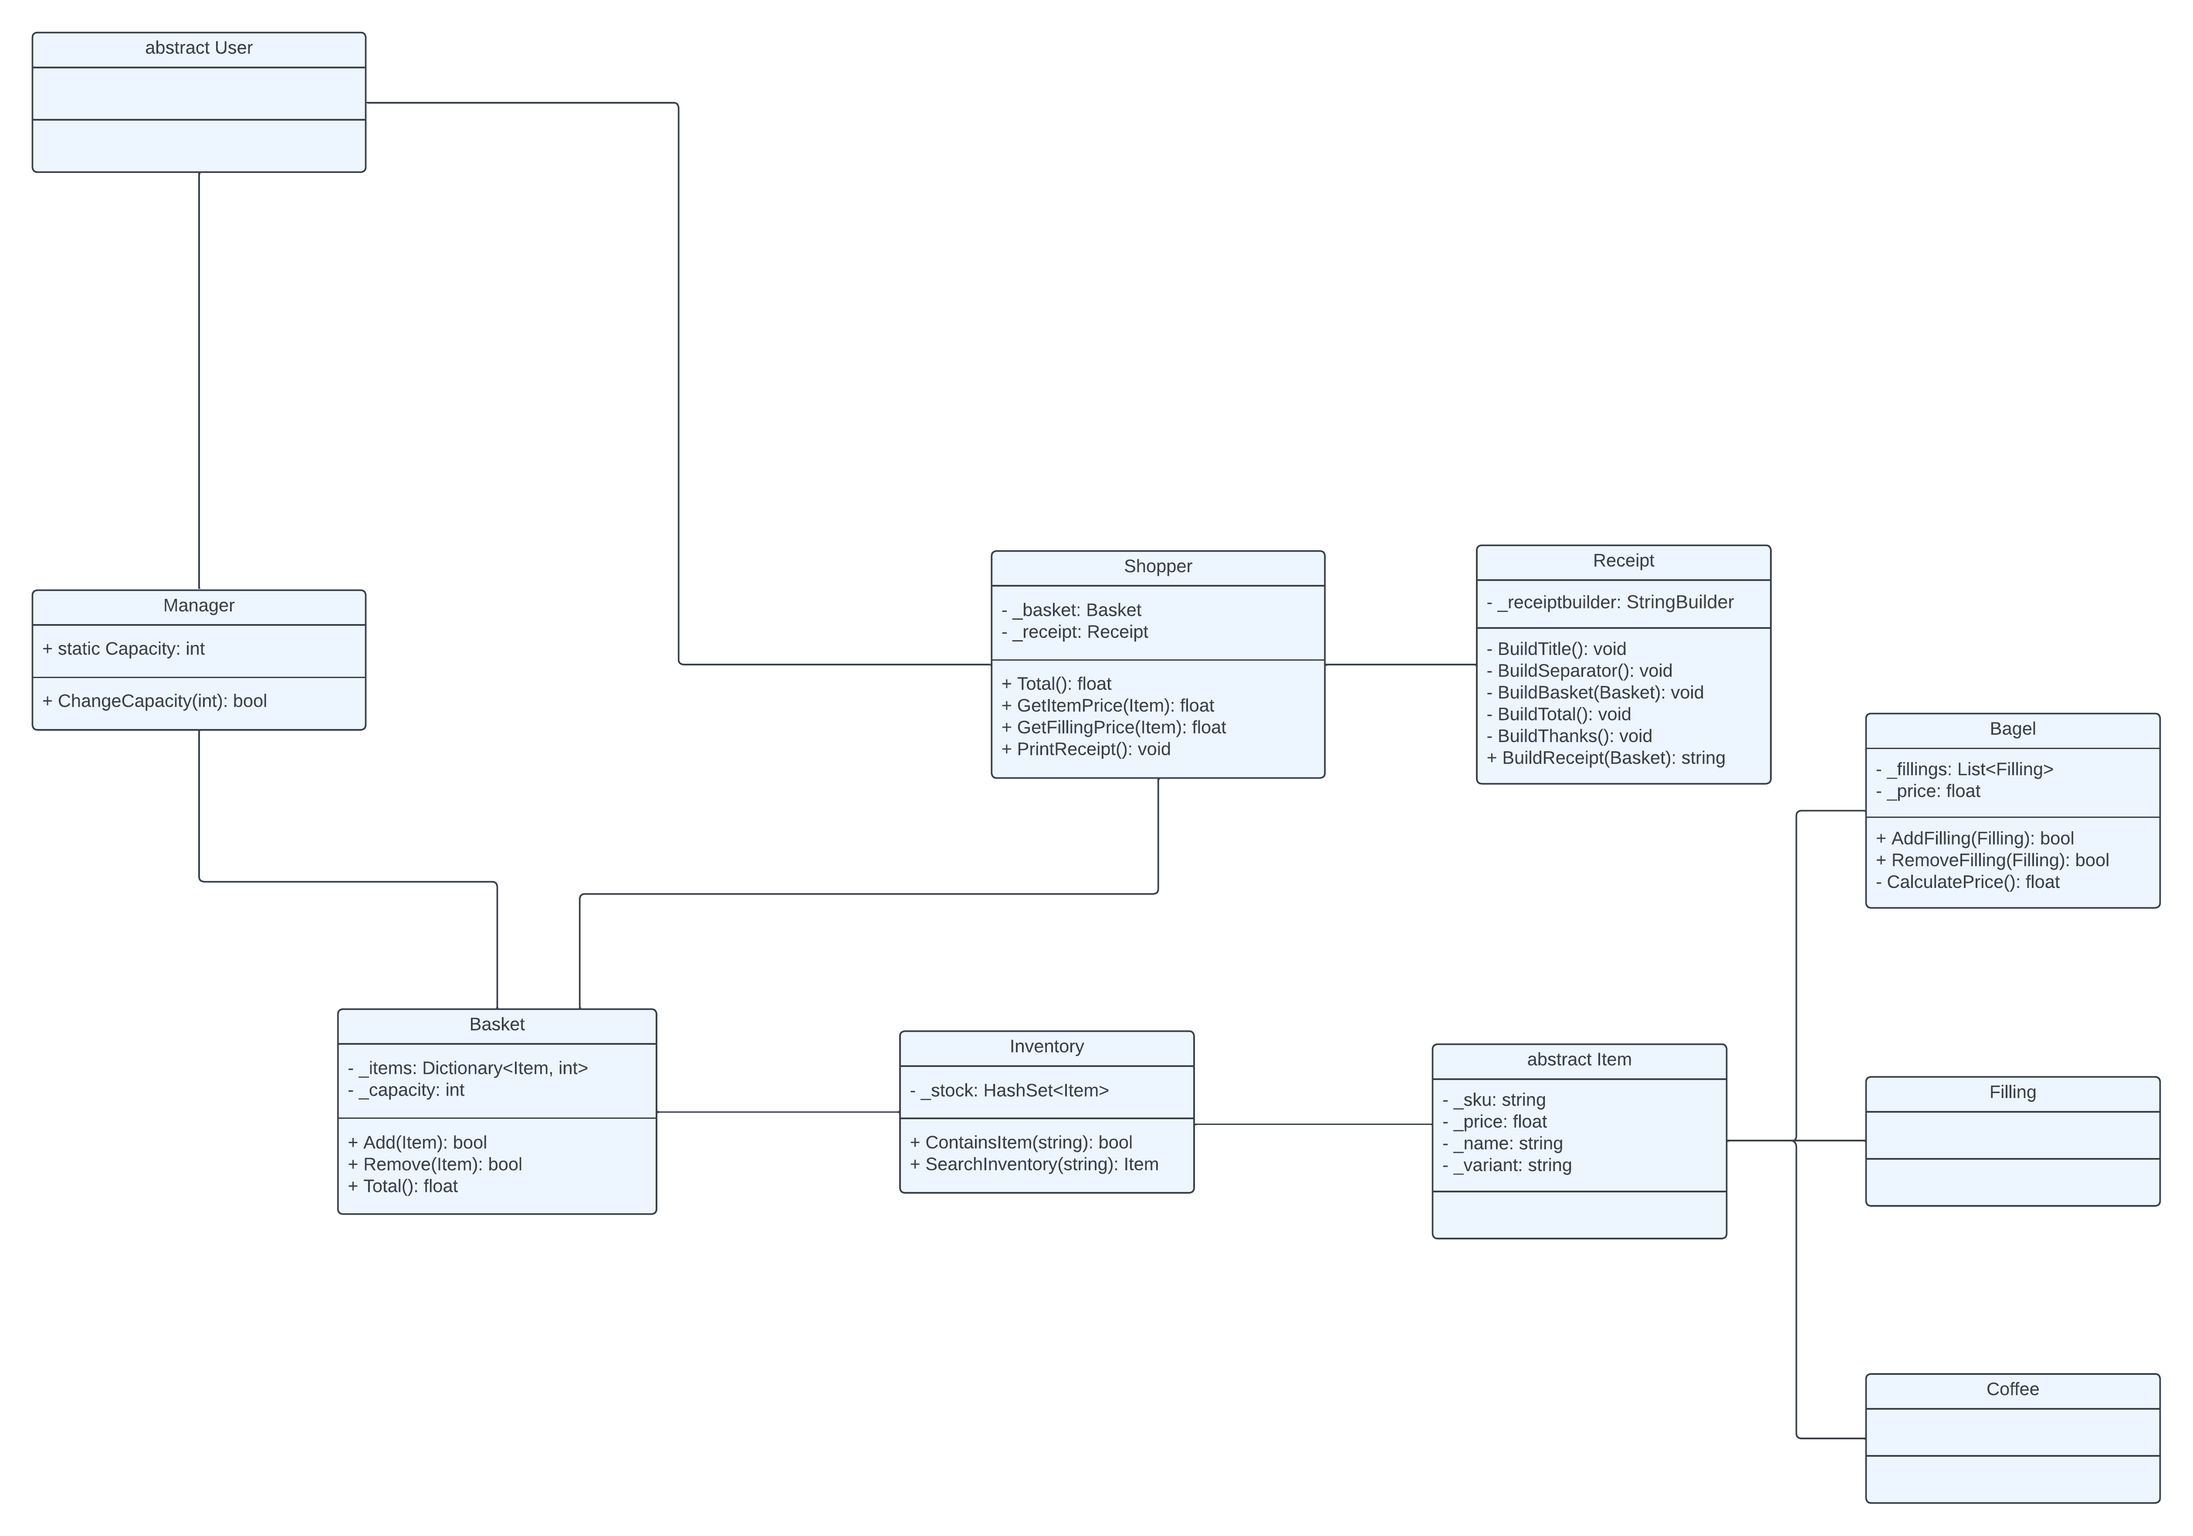
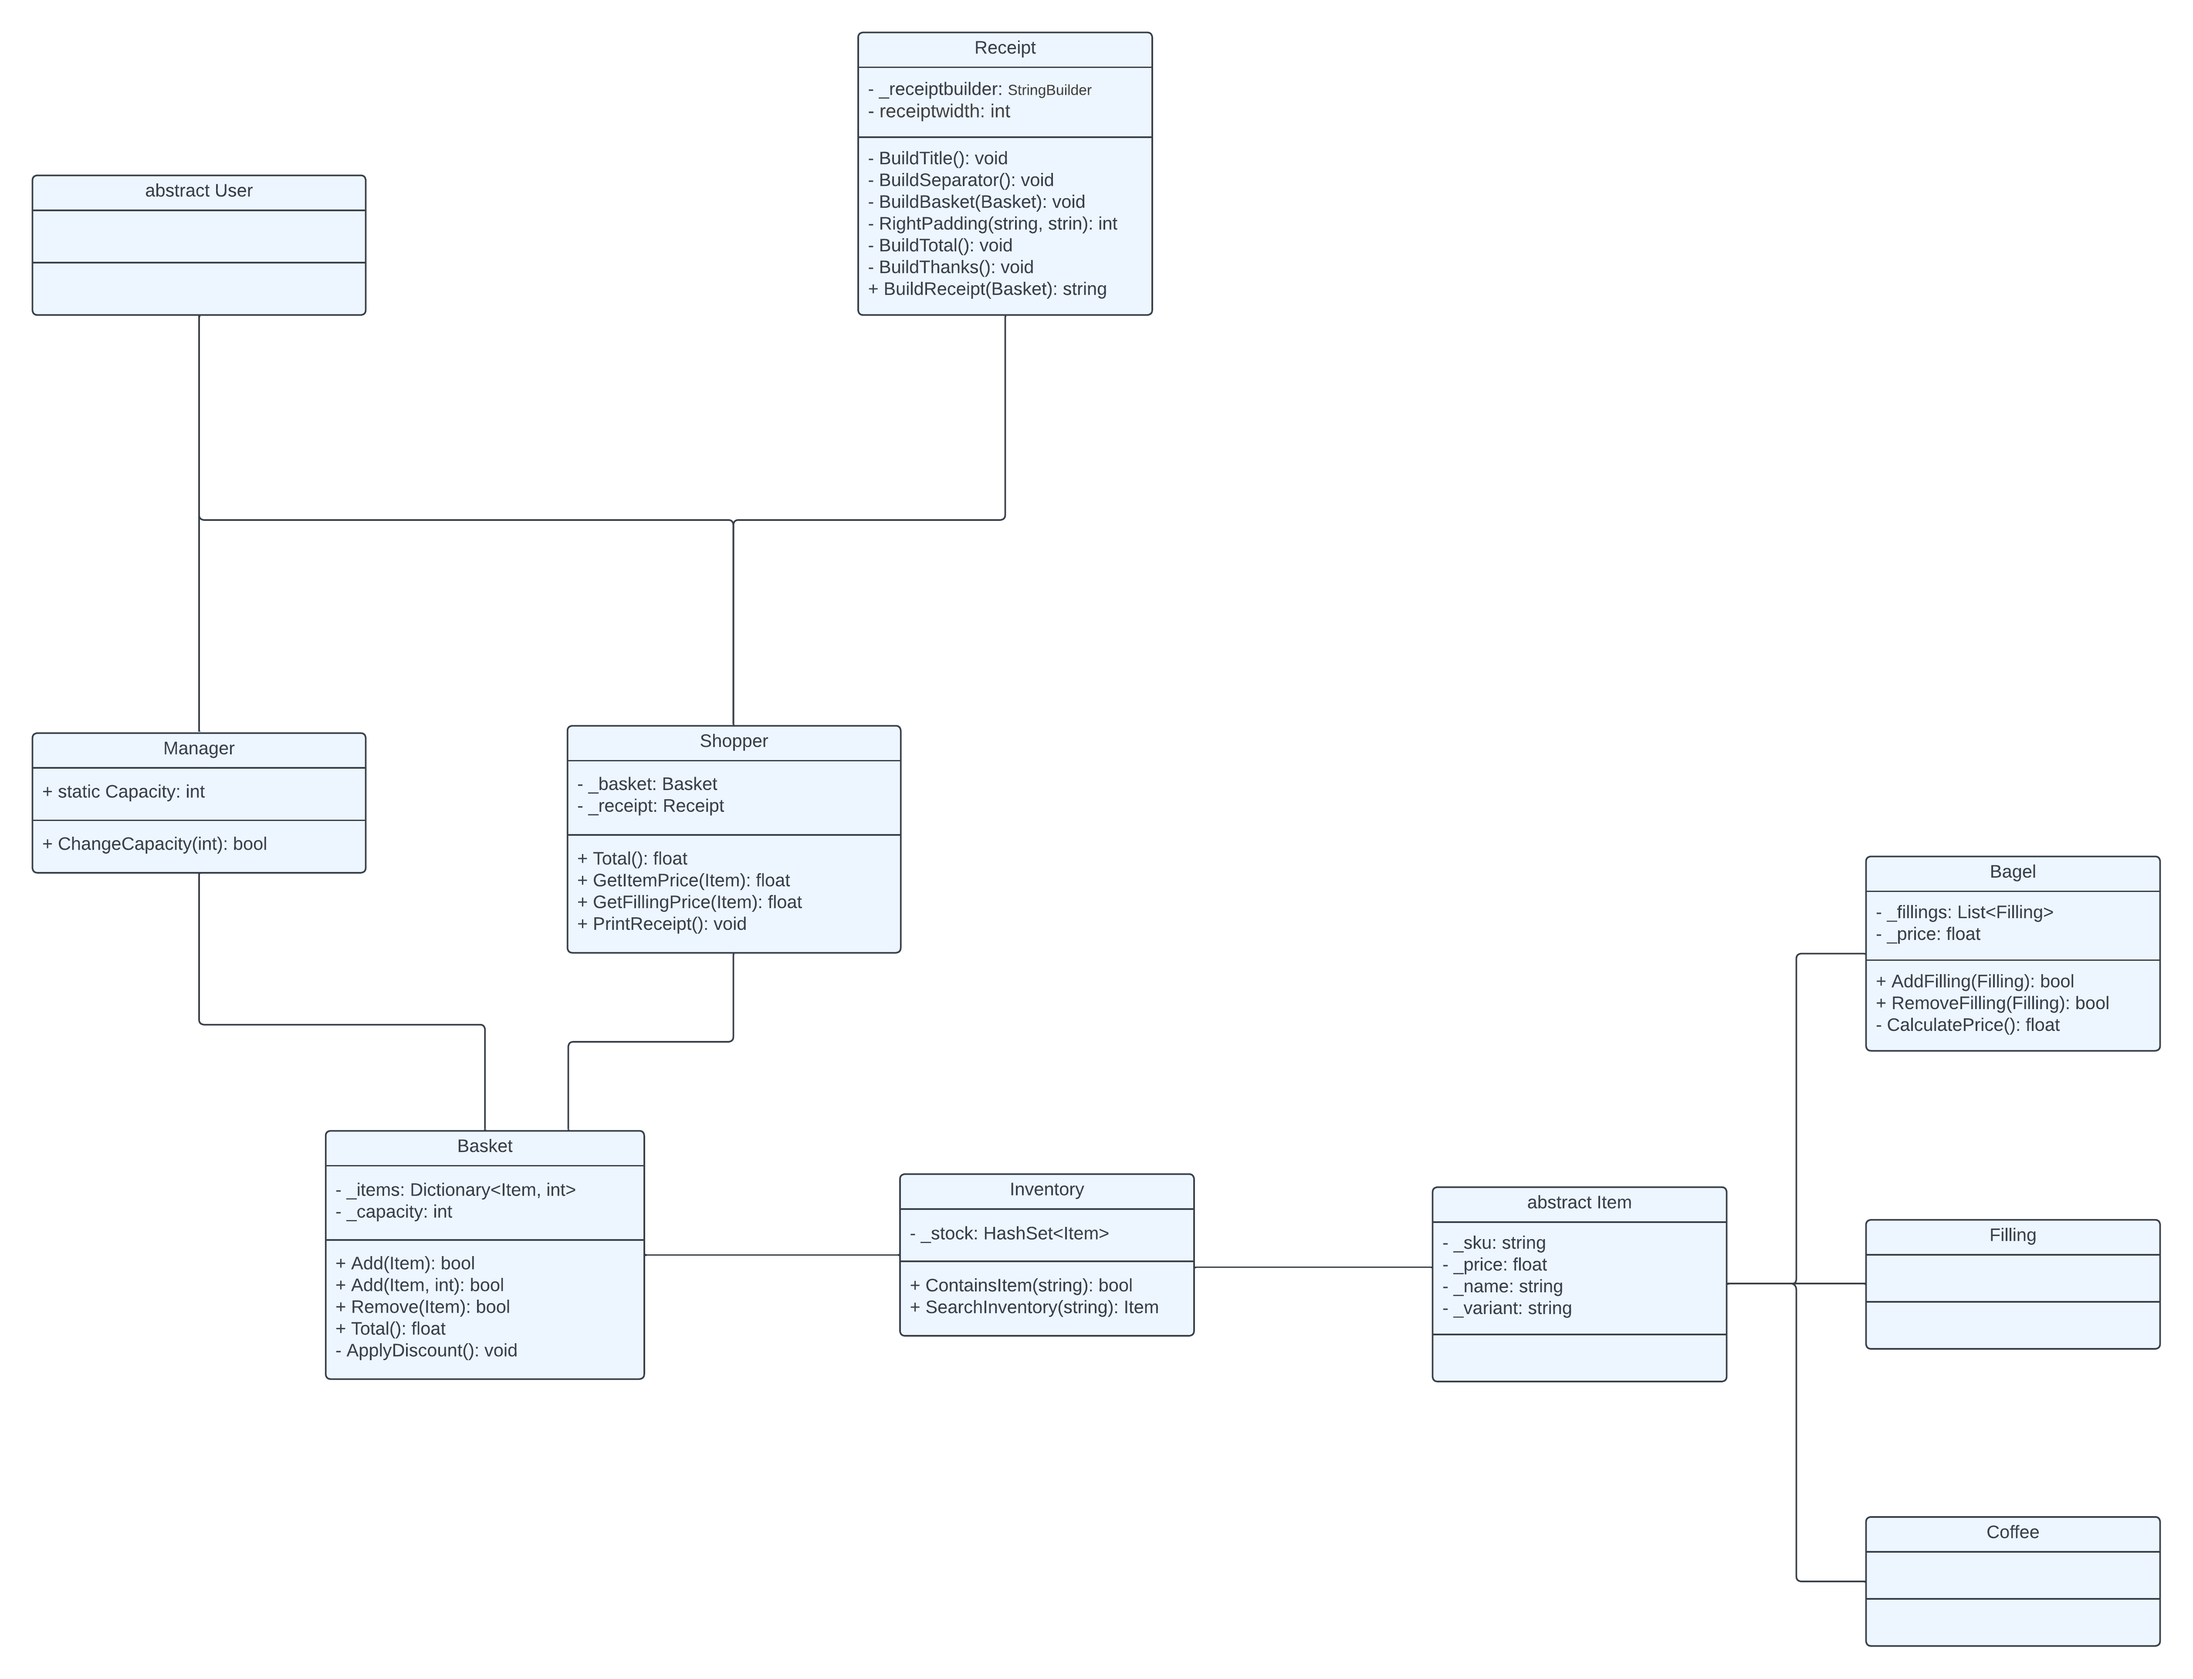
Added user stories, class diagram and updated skeleton code for extension 1

diff --git a/exercise.main/Item.cs b/exercise.main/Item.cs
@@ -1,19 +1,27 @@
-
-
-namespace BobsBagels.main
+namespace BobsBagels.main
 {
-    public abstract class Item(string sku, float price, string name, string variant)
+    public abstract class Item
     {
-        private string _sku { get; } = sku;
-        private float _price { get; } = price;
-        private string _name { get; } = name;
-        private string _variant { get; } = variant;
+        private string _sku;
+        private float _price;
+        private string _name;
+        private string _variant;
 
+        public Item(string sku, float price, string name, string variant)
+        {
+            _sku = sku;
+            _price = price;
+            _name = name;
+            _variant = variant;
+        }
 
         public string SKU { get { return _sku; } }
-        public float Price { get { return _price; } }
-        public string Name { get { return _name; } }
-        public string Variant{ get { return _variant; }
+        public float Price
+        {
+            get { return _price; }
+            set { _price = value; }
         }
+        public string Name { get { return _name; } }
+        public string Variant { get { return _variant; } }
     }
 }

diff --git a/exercise.tests/CoreTests.cs b/exercise.tests/CoreTests.cs
@@ -286,6 +286,9 @@ public class CoreTests {
 
     }
 
+    // ------------------ EXTENSION 1 ------------------
+
+
     // ------------------ EXTENSION 2 ------------------
 
     [Test]
@@ -376,5 +379,8 @@ public class CoreTests {
         var output = stringWriter.ToString();
         Assert.That(output, Is.EqualTo("\r\n"));
     }
+
+    
+
 
 }

diff --git a/exercise.main/Program.cs b/exercise.main/Program.cs
@@ -1,15 +1,3 @@
 // See https://aka.ms/new-console-template for more information
 using BobsBagels.main;
 
-
-var inventory = new Inventory();
-var shopper = new Shopper();
-var manager = new Manager();
-manager.ChangeCapacity(16);
-
-
-// act
-
-var BGLP = inventory.SearchInventory("BGLP");
-shopper.Basket.Add(BGLP, 16);
-shopper.PrintReceipt();

diff --git a/exercise.main/Basket.cs b/exercise.main/Basket.cs
@@ -6,6 +6,8 @@
         private int _capacity { get { return Manager.Capacity; } }
         private int _count { get; set; } = 0;
 
+        private void ApplyDiscount() { throw new NotImplementedException(); }
+
         public bool Add(Item item)
         {
             if (_count == _capacity) return false;

diff --git a/extension1.md b/extension1.md
@@ -38,3 +38,33 @@ Every Bagel is available for the `6 for 2.49` and `12 for 3.99` offer, but filli
 Update and extend your program to handle these orders at Bob's Bagels.
 
 Start with extracting useful stories and a functional domain model that represents these requirements.
+
+## User stories
+
+```
+1. 
+As a manager of Bob's bagels,
+I want at most one discount to be applied to a customers basket,
+so that my company is not too altruistic
+```
+
+``` 
+2.
+As a customer at Bob's Bagels,
+I want to take advantage of multi-price offers,
+so that I can save money when buying in bulk.
+``` 
+
+```
+3. 
+As a cashier at Bob's Bagels,
+I want to identify bagels using their SKU codes,
+so that I can easily manage and process orders.
+```
+
+```
+4. 
+As a cashier at Bob's Bagels,
+I want the discounts to be applied when calculating the total,
+so that I can finish scanning the products before a discount is chosen
+```
